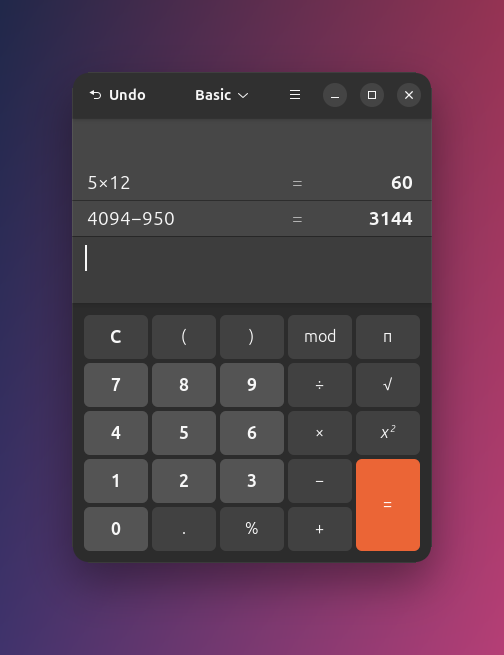
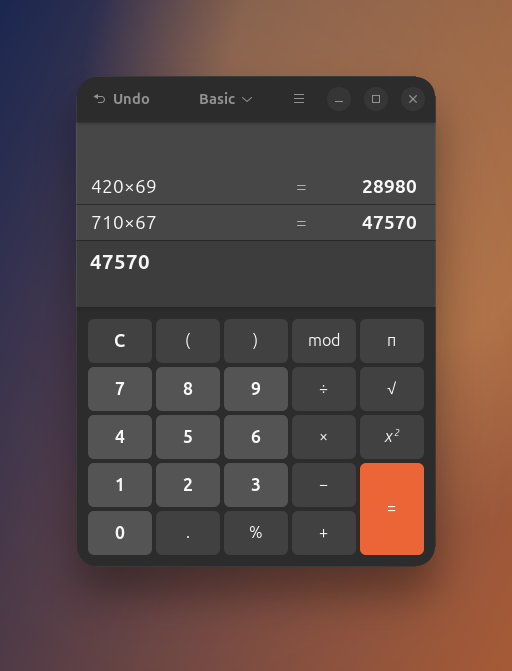
docs: refresh calculator card and test roadmap

diff --git a/ROADMAP.md b/ROADMAP.md
@@ -22,6 +22,19 @@ App Shots is a cross-platform, agent-neutral CLI with Linux as the first backend
 - Add Windows integration tests for interactive-session capture.
 - Add signed release binaries once the publishing path is stable.
 
+## Distro And Media Test Matrix
+
+- Add small container-based package smoke tests for major Linux distro families:
+  Debian/Ubuntu, Fedora/RHEL, Arch, openSUSE, and Alpine where practical.
+- Keep container tests focused on build, packaging, CLI contract, `schema`, `doctor`,
+  and helper-detection behavior. Real screenshot capture still needs a graphical
+  desktop session, so it belongs in VM or desktop-session tests rather than plain
+  headless containers.
+- Add optional VM/desktop smoke targets for GNOME X11, GNOME Wayland, KDE, and
+  wlroots compositors.
+- Explore shared capture artifacts for downstream video/demo workflows, including
+  consistent image sizing, card style seeds, and future video format handoff points.
+
 ## Release Packaging
 
 - Linux release archives are packaged by `scripts/package-release.sh`.